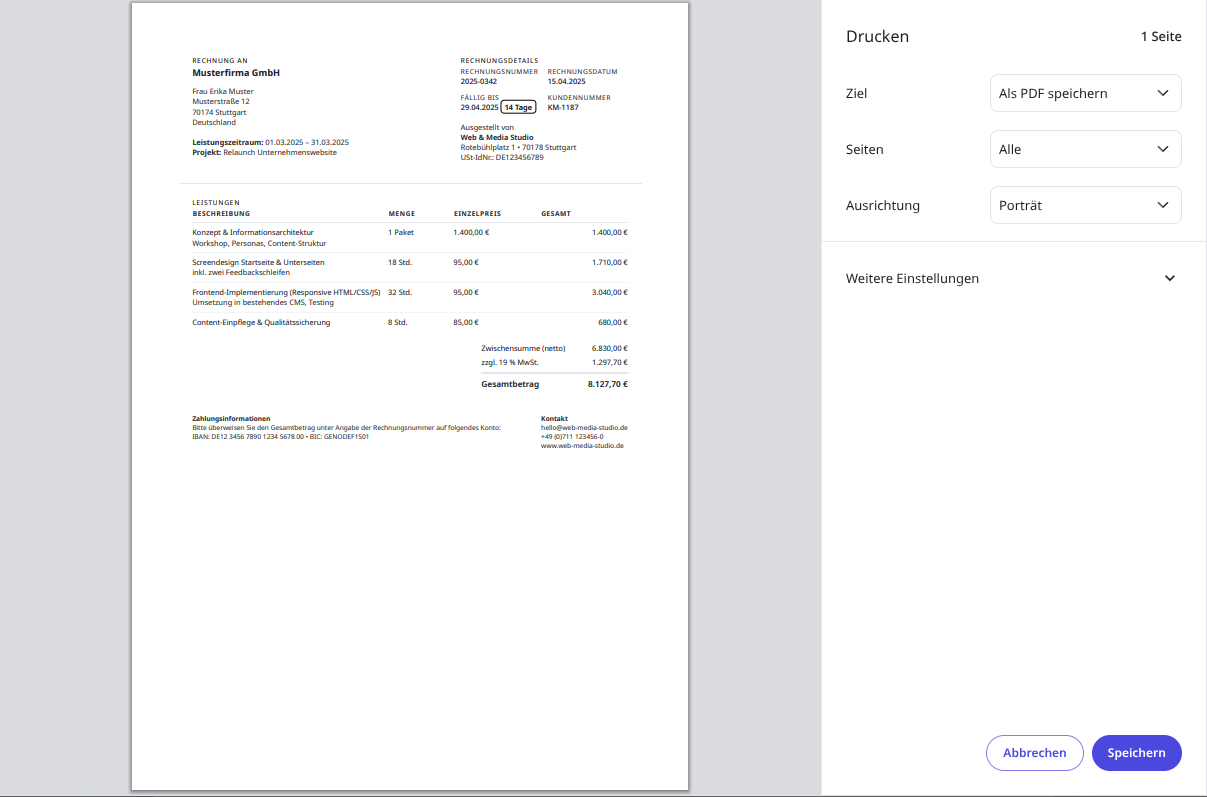
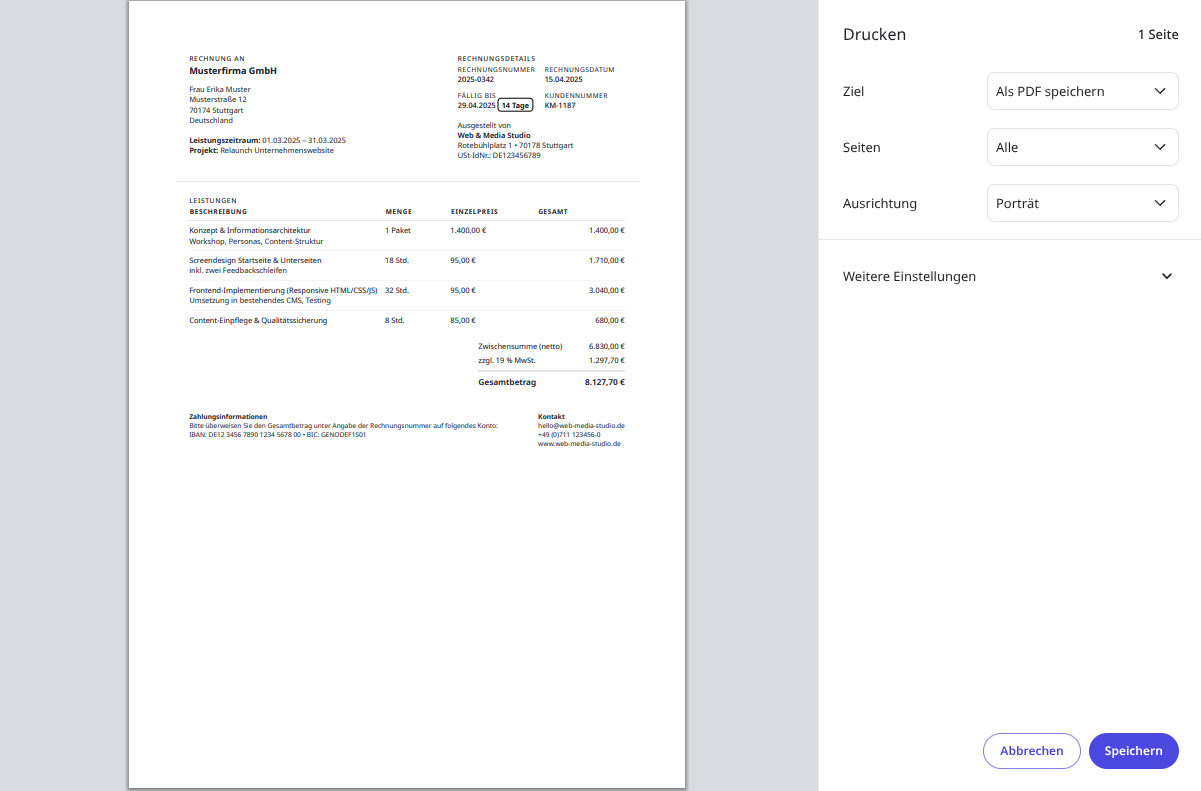
fix c3 screenshots

diff --git a/docs/c3/loesungen/c-3-4.html b/docs/c3/loesungen/c-3-4.html
@@ -393,7 +393,7 @@ pre > code.sourceCode > span > a:first-child::before { text-decoration: underlin
 <span id="cb2-3"><a href="#cb2-3" aria-hidden="true" tabindex="-1"></a></span>
 <span id="cb2-4"><a href="#cb2-4" aria-hidden="true" tabindex="-1"></a><span class="dt">&lt;</span><span class="kw">head</span><span class="dt">&gt;</span></span>
 <span id="cb2-5"><a href="#cb2-5" aria-hidden="true" tabindex="-1"></a>    <span class="dt">&lt;</span><span class="kw">meta</span><span class="ot"> charset</span><span class="op">=</span><span class="st">"UTF-8"</span><span class="ot"> </span><span class="dt">/&gt;</span></span>
-<span id="cb2-6"><a href="#cb2-6" aria-hidden="true" tabindex="-1"></a>    <span class="dt">&lt;</span><span class="kw">title</span><span class="dt">&gt;</span>Rechnung – Beispielagentur Web <span class="er">&amp;</span> Media<span class="dt">&lt;/</span><span class="kw">title</span><span class="dt">&gt;</span></span>
+<span id="cb2-6"><a href="#cb2-6" aria-hidden="true" tabindex="-1"></a>    <span class="dt">&lt;</span><span class="kw">title</span><span class="dt">&gt;</span>Rechnung – Beispielagentur Code <span class="er">&amp;</span> Media<span class="dt">&lt;/</span><span class="kw">title</span><span class="dt">&gt;</span></span>
 <span id="cb2-7"><a href="#cb2-7" aria-hidden="true" tabindex="-1"></a>    <span class="dt">&lt;</span><span class="kw">style</span><span class="dt">&gt;</span></span>
 <span id="cb2-8"><a href="#cb2-8" aria-hidden="true" tabindex="-1"></a>        <span class="in">:root</span> {</span>
 <span id="cb2-9"><a href="#cb2-9" aria-hidden="true" tabindex="-1"></a>            <span class="va">--primary</span><span class="ch">:</span> <span class="cn">#0057a3</span><span class="op">;</span></span>
@@ -669,7 +669,7 @@ pre > code.sourceCode > span > a:first-child::before { text-decoration: underlin
 <span id="cb2-279"><a href="#cb2-279" aria-hidden="true" tabindex="-1"></a>            }</span>
 <span id="cb2-280"><a href="#cb2-280" aria-hidden="true" tabindex="-1"></a>        }</span>
 <span id="cb2-281"><a href="#cb2-281" aria-hidden="true" tabindex="-1"></a></span>
-<span id="cb2-282"><a href="#cb2-282" aria-hidden="true" tabindex="-1"></a>    <span class="co">/* =========================================================</span></span>
+<span id="cb2-282"><a href="#cb2-282" aria-hidden="true" tabindex="-1"></a>        <span class="co">/* =========================================================</span></span>
 <span id="cb2-283"><a href="#cb2-283" aria-hidden="true" tabindex="-1"></a><span class="co">       PRINT-LAYOUT – ALLE ÄNDERUNGEN / ERGÄNZUNGEN SIND MARKIERT</span></span>
 <span id="cb2-284"><a href="#cb2-284" aria-hidden="true" tabindex="-1"></a><span class="co">       ========================================================= */</span></span>
 <span id="cb2-285"><a href="#cb2-285" aria-hidden="true" tabindex="-1"></a></span>
@@ -764,7 +764,7 @@ pre > code.sourceCode > span > a:first-child::before { text-decoration: underlin
 <span id="cb2-374"><a href="#cb2-374" aria-hidden="true" tabindex="-1"></a>        <span class="dt">&lt;</span><span class="kw">div</span><span class="ot"> class</span><span class="op">=</span><span class="st">"invoice-shell"</span><span class="dt">&gt;</span></span>
 <span id="cb2-375"><a href="#cb2-375" aria-hidden="true" tabindex="-1"></a>            <span class="dt">&lt;</span><span class="kw">header</span><span class="ot"> class</span><span class="op">=</span><span class="st">"header-bar screen-only"</span><span class="dt">&gt;</span></span>
 <span id="cb2-376"><a href="#cb2-376" aria-hidden="true" tabindex="-1"></a>                <span class="dt">&lt;</span><span class="kw">div</span><span class="ot"> class</span><span class="op">=</span><span class="st">"logo"</span><span class="dt">&gt;</span></span>
-<span id="cb2-377"><a href="#cb2-377" aria-hidden="true" tabindex="-1"></a>                    WEB <span class="dv">&amp;amp;</span> MEDIA <span class="dt">&lt;</span><span class="kw">span</span><span class="dt">&gt;</span>Studio<span class="dt">&lt;/</span><span class="kw">span</span><span class="dt">&gt;</span></span>
+<span id="cb2-377"><a href="#cb2-377" aria-hidden="true" tabindex="-1"></a>                    CODE <span class="dv">&amp;amp;</span> MEDIA <span class="dt">&lt;</span><span class="kw">span</span><span class="dt">&gt;</span>Studio<span class="dt">&lt;/</span><span class="kw">span</span><span class="dt">&gt;</span></span>
 <span id="cb2-378"><a href="#cb2-378" aria-hidden="true" tabindex="-1"></a>                <span class="dt">&lt;/</span><span class="kw">div</span><span class="dt">&gt;</span></span>
 <span id="cb2-379"><a href="#cb2-379" aria-hidden="true" tabindex="-1"></a>                <span class="dt">&lt;</span><span class="kw">nav</span><span class="ot"> class</span><span class="op">=</span><span class="st">"nav"</span><span class="dt">&gt;</span></span>
 <span id="cb2-380"><a href="#cb2-380" aria-hidden="true" tabindex="-1"></a>                    <span class="dt">&lt;</span><span class="kw">a</span><span class="ot"> href</span><span class="op">=</span><span class="st">"#"</span><span class="dt">&gt;</span>Dashboard<span class="dt">&lt;/</span><span class="kw">a</span><span class="dt">&gt;</span></span>
@@ -829,7 +829,7 @@ pre > code.sourceCode > span > a:first-child::before { text-decoration: underlin
 <span id="cb2-439"><a href="#cb2-439" aria-hidden="true" tabindex="-1"></a></span>
 <span id="cb2-440"><a href="#cb2-440" aria-hidden="true" tabindex="-1"></a>                    <span class="dt">&lt;</span><span class="kw">p</span><span class="ot"> class</span><span class="op">=</span><span class="st">"issuer"</span><span class="ot"> style</span><span class="op">=</span><span class="st">"margin-top:18px;"</span><span class="dt">&gt;</span></span>
 <span id="cb2-441"><a href="#cb2-441" aria-hidden="true" tabindex="-1"></a>                        Ausgestellt von<span class="dt">&lt;</span><span class="kw">br</span><span class="dt">&gt;</span></span>
-<span id="cb2-442"><a href="#cb2-442" aria-hidden="true" tabindex="-1"></a>                        <span class="dt">&lt;</span><span class="kw">span</span><span class="ot"> class</span><span class="op">=</span><span class="st">"issuer-strong"</span><span class="dt">&gt;</span>Web <span class="dv">&amp;amp;</span> Media Studio<span class="dt">&lt;/</span><span class="kw">span</span><span class="dt">&gt;&lt;</span><span class="kw">br</span><span class="dt">&gt;</span></span>
+<span id="cb2-442"><a href="#cb2-442" aria-hidden="true" tabindex="-1"></a>                        <span class="dt">&lt;</span><span class="kw">span</span><span class="ot"> class</span><span class="op">=</span><span class="st">"issuer-strong"</span><span class="dt">&gt;</span>Code <span class="dv">&amp;amp;</span> Media Studio<span class="dt">&lt;/</span><span class="kw">span</span><span class="dt">&gt;&lt;</span><span class="kw">br</span><span class="dt">&gt;</span></span>
 <span id="cb2-443"><a href="#cb2-443" aria-hidden="true" tabindex="-1"></a>                        Rotebühlplatz 1 • 70178 Stuttgart<span class="dt">&lt;</span><span class="kw">br</span><span class="dt">&gt;</span></span>
 <span id="cb2-444"><a href="#cb2-444" aria-hidden="true" tabindex="-1"></a>                        USt-IdNr.: DE123456789</span>
 <span id="cb2-445"><a href="#cb2-445" aria-hidden="true" tabindex="-1"></a>                    <span class="dt">&lt;/</span><span class="kw">p</span><span class="dt">&gt;</span></span>
@@ -915,9 +915,9 @@ pre > code.sourceCode > span > a:first-child::before { text-decoration: underlin
 <span id="cb2-525"><a href="#cb2-525" aria-hidden="true" tabindex="-1"></a>                <span class="dt">&lt;/</span><span class="kw">div</span><span class="dt">&gt;</span></span>
 <span id="cb2-526"><a href="#cb2-526" aria-hidden="true" tabindex="-1"></a>                <span class="dt">&lt;</span><span class="kw">div</span><span class="dt">&gt;</span></span>
 <span id="cb2-527"><a href="#cb2-527" aria-hidden="true" tabindex="-1"></a>                    <span class="dt">&lt;</span><span class="kw">strong</span><span class="dt">&gt;</span>Kontakt<span class="dt">&lt;/</span><span class="kw">strong</span><span class="dt">&gt;&lt;</span><span class="kw">br</span><span class="dt">&gt;</span></span>
-<span id="cb2-528"><a href="#cb2-528" aria-hidden="true" tabindex="-1"></a>                    hello@web-media-studio.de<span class="dt">&lt;</span><span class="kw">br</span><span class="dt">&gt;</span></span>
+<span id="cb2-528"><a href="#cb2-528" aria-hidden="true" tabindex="-1"></a>                    hello@code-media-studio.de<span class="dt">&lt;</span><span class="kw">br</span><span class="dt">&gt;</span></span>
 <span id="cb2-529"><a href="#cb2-529" aria-hidden="true" tabindex="-1"></a>                    +49 (0)711 123456-0<span class="dt">&lt;</span><span class="kw">br</span><span class="dt">&gt;</span></span>
-<span id="cb2-530"><a href="#cb2-530" aria-hidden="true" tabindex="-1"></a>                    www.web-media-studio.de</span>
+<span id="cb2-530"><a href="#cb2-530" aria-hidden="true" tabindex="-1"></a>                    www.code-media-studio.de</span>
 <span id="cb2-531"><a href="#cb2-531" aria-hidden="true" tabindex="-1"></a>                <span class="dt">&lt;/</span><span class="kw">div</span><span class="dt">&gt;</span></span>
 <span id="cb2-532"><a href="#cb2-532" aria-hidden="true" tabindex="-1"></a>            <span class="dt">&lt;/</span><span class="kw">footer</span><span class="dt">&gt;</span></span>
 <span id="cb2-533"><a href="#cb2-533" aria-hidden="true" tabindex="-1"></a>        <span class="dt">&lt;/</span><span class="kw">div</span><span class="dt">&gt;</span></span>

diff --git a/docs/u11/index.html b/docs/u11/index.html
@@ -244,15 +244,20 @@ ul.task-list li input[type="checkbox"] {
 <li>Footer mit Kontaktinformationen und Social Media Links.</li>
 </ul>
 <p><strong>Fluides Layout</strong></p>
-<p>-Verwenden Sie prozentuale Breiten und relative Einheiten (em, rem) anstelle von festen Pixelwerten für das Layout. - Sorgen Sie dafür, dass alle Bilder und Medieninhalte skalierbar sind und sich proportional zur Bildschirmgröße anpassen. Adaptive Typografie - Implementieren Sie eine skalierbare Typografie, die sich an die Bildschirmgröße anpasst. Verwenden Sie dazu relative Einheiten wie em und rem. - Sorgen Sie dafür, dass die Schriftgrößen bei großen Bildschirmen größer und bei kleinen Bildschirmen kleiner sind.</p>
-<p><strong>Responsive Bilder</strong> - Das Hauptproduktbild sollte sich flexibel an die verfügbare Breite des Containers anpassen. - Nutzen Sie das srcset-Attribut, um verschiedene Bildauflösungen für unterschiedliche Bildschirmgrößen bereitzustellen.</p>
+<ul>
+<li>Verwenden Sie prozentuale Breiten und relative Einheiten (<code>em</code>, <code>rem</code>) anstelle von festen Pixelwerten für das Layout.</li>
+<li>Sorgen Sie dafür, dass alle Bilder und Medieninhalte skalierbar sind und sich proportional zur Bildschirmgröße anpassen.</li>
+<li>Adaptive Typografie: Implementieren Sie eine skalierbare Typografie, die sich an die Bildschirmgröße anpasst. Verwenden Sie dazu relative Einheiten wie <code>em</code> und <code>rem</code>.</li>
+<li>Sorgen Sie dafür, dass die Schriftgrößen bei großen Bildschirmen größer und bei kleinen Bildschirmen kleiner sind.</li>
+</ul>
+<p><strong>Responsive Bilder</strong> - Das Hauptproduktbild sollte sich flexibel an die verfügbare Breite des Containers anpassen. - Nutzen Sie das <code>srcset</code>-Attribut, um verschiedene Bildauflösungen für unterschiedliche Bildschirmgrößen bereitzustellen.</p>
 <p><strong>Medienabfragen</strong></p>
 <ul>
 <li>Verwenden Sie <code>@media</code>-Queries, um Layout-Änderungen für spezifische Bildschirmgrößen vorzunehmen:</li>
-<li>Bei einer Bildschirmbreite über 1200px sollte der Inhalt in drei Spalten (Bild, Beschreibung, Kaufoptionen) angezeigt werden.</li>
-<li>Bei einer Bildschirmbreite zwischen 768px und 1200px sollte der Inhalt in zwei Spalten (Bild, Beschreibung/Kaufoptionen) angezeigt werden.</li>
-<li>Unter 768px sollte der gesamte Inhalt untereinander in einer Spalte angezeigt werden. Fluide Abstände und Padding</li>
-<li>Verwenden Sie relative Einheiten für Margins und Padding, um sicherzustellen, dass Abstände proportional zur Bildschirmgröße bleiben.</li>
+<li>Bei einer Bildschirmbreite über <code>1200px</code> sollte der Inhalt in drei Spalten (Bild, Beschreibung, Kaufoptionen) angezeigt werden.</li>
+<li>Bei einer Bildschirmbreite zwischen <code>768px</code> und <code>1200px</code> sollte der Inhalt in zwei Spalten (Bild, Beschreibung/Kaufoptionen) angezeigt werden.</li>
+<li>Unter <code>768px</code> sollte der gesamte Inhalt untereinander in einer Spalte angezeigt werden.</li>
+<li>Fluide Abstände und Padding: Verwenden Sie relative Einheiten für Margins und Padding, um sicherzustellen, dass Abstände proportional zur Bildschirmgröße bleiben.</li>
 </ul>
 <p><strong>Hinweise</strong></p>
 <ul>

diff --git a/code/scheibe/loesung.html b/code/scheibe/loesung.html
@@ -3,7 +3,7 @@
 
 <head>
     <meta charset="UTF-8" />
-    <title>Rechnung – Beispielagentur Web & Media</title>
+    <title>Rechnung – Beispielagentur Code & Media</title>
     <style>
         :root {
             --primary: #0057a3;
@@ -279,7 +279,7 @@
             }
         }
 
-    /* =========================================================
+        /* =========================================================
        PRINT-LAYOUT – ALLE ÄNDERUNGEN / ERGÄNZUNGEN SIND MARKIERT
        ========================================================= */
 
@@ -374,7 +374,7 @@
         <div class="invoice-shell">
             <header class="header-bar screen-only">
                 <div class="logo">
-                    WEB &amp; MEDIA <span>Studio</span>
+                    CODE &amp; MEDIA <span>Studio</span>
                 </div>
                 <nav class="nav">
                     <a href="#">Dashboard</a>
@@ -439,7 +439,7 @@
 
                     <p class="issuer" style="margin-top:18px;">
                         Ausgestellt von<br>
-                        <span class="issuer-strong">Web &amp; Media Studio</span><br>
+                        <span class="issuer-strong">Code &amp; Media Studio</span><br>
                         Rotebühlplatz 1 • 70178 Stuttgart<br>
                         USt-IdNr.: DE123456789
                     </p>
@@ -525,9 +525,9 @@
                 </div>
                 <div>
                     <strong>Kontakt</strong><br>
-                    hello@web-media-studio.de<br>
+                    hello@code-media-studio.de<br>
                     +49 (0)711 123456-0<br>
-                    www.web-media-studio.de
+                    www.code-media-studio.de
                 </div>
             </footer>
         </div>
